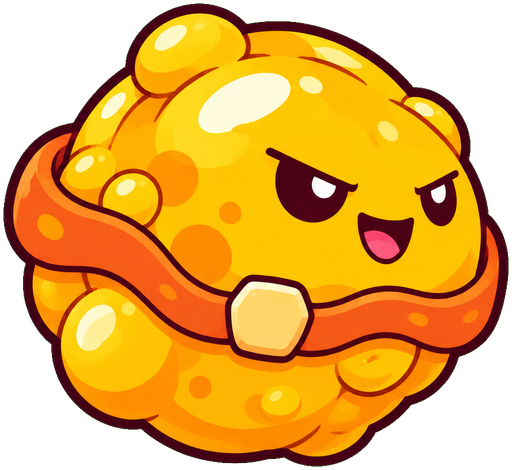
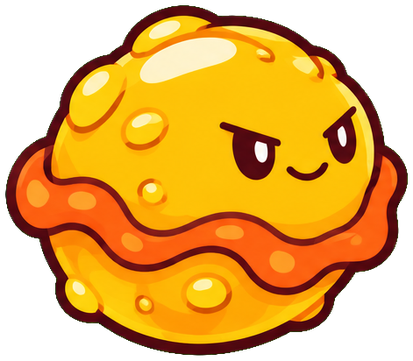
Circulatorio: LDL, célula espumosa, esporozoíto, merozoíto y émbolo con sus 4 poses
El arte del sistema circulatorio queda completo.

Claude-Session: https://claude.ai/code/session_01So77qf1zGiYdnp4fHwupfP

diff --git a/LEEME.md b/LEEME.md
@@ -559,9 +559,9 @@ están en el proyecto de Claude: `claude/sprites-circulatorio.md`.
   quita el fondo, separa los dibujos (en orden de lectura) y los guarda a la misma escala. Si ya existe
   `<Prefijo>_Normal.png` no lo reemplaza y escala las demás poses para que midan lo mismo; una pose `-` se ignora.
 - **Ya están** (20 nov): los 6 jefes con sus 4 poses (Ateroma, Plasmodium, Epstein-Barr, T. cruzi, Gran trombo y
-  Cálculo), `SViridans` y `EColi` con 4 poses, `LDL`, `CelulaEspumosa`, `Esporozoito`, `Merozoito` y `Embolo` (Normal),
-  `Plaquetas` (bestiario), la nave, el linfocito B, los 8 letreros y los fondos del Bazo, el Corazón y el Riñón.
-  Faltan las otras 3 poses de los 5 enemigos que solo tienen la Normal. Con dibujo, la placa de
+  Cálculo), los 7 enemigos con sus 4 poses (`LDL`, `CelulaEspumosa`, `Esporozoito`, `Merozoito`, `Embolo`,
+  `SViridans` y `EColi`), `Plaquetas` (bestiario), la nave, el linfocito B, los 8 letreros y los fondos del Bazo, el
+  Corazón y el Riñón: el arte del sistema circulatorio está completo. Con dibujo, la placa de
   ateroma mide lo que su dibujo (a lo alto tapa casi toda la arteria), las grietas del cálculo brillan donde están
   dibujadas, y el gran trombo y T. cruzi ajustan dónde se les puede pegar.
 
